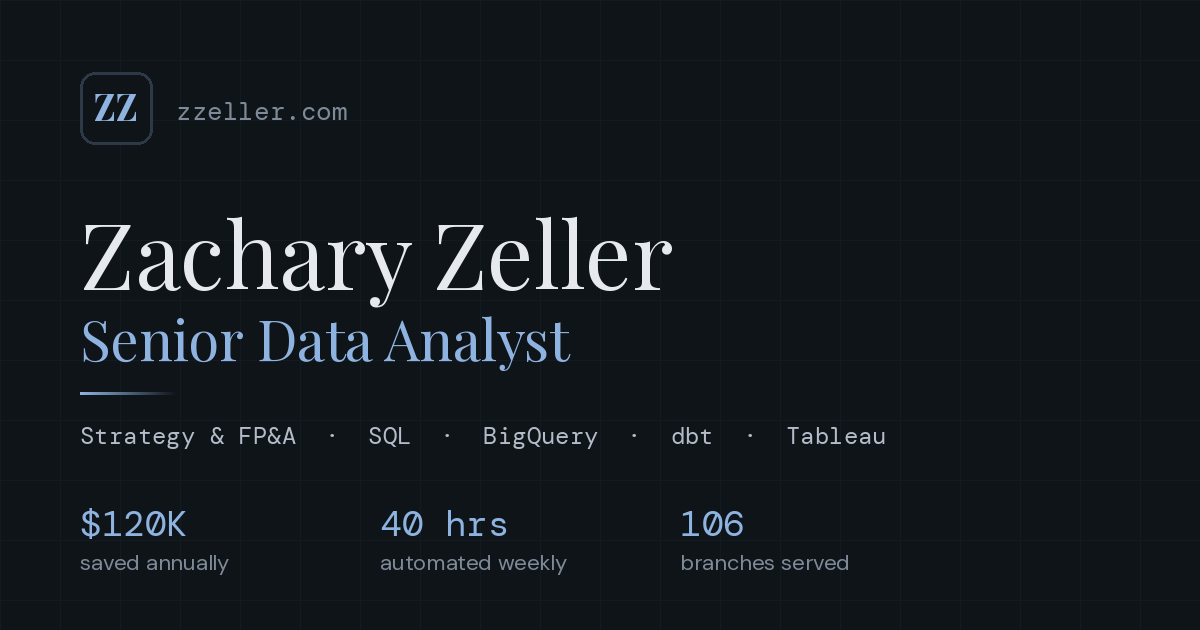
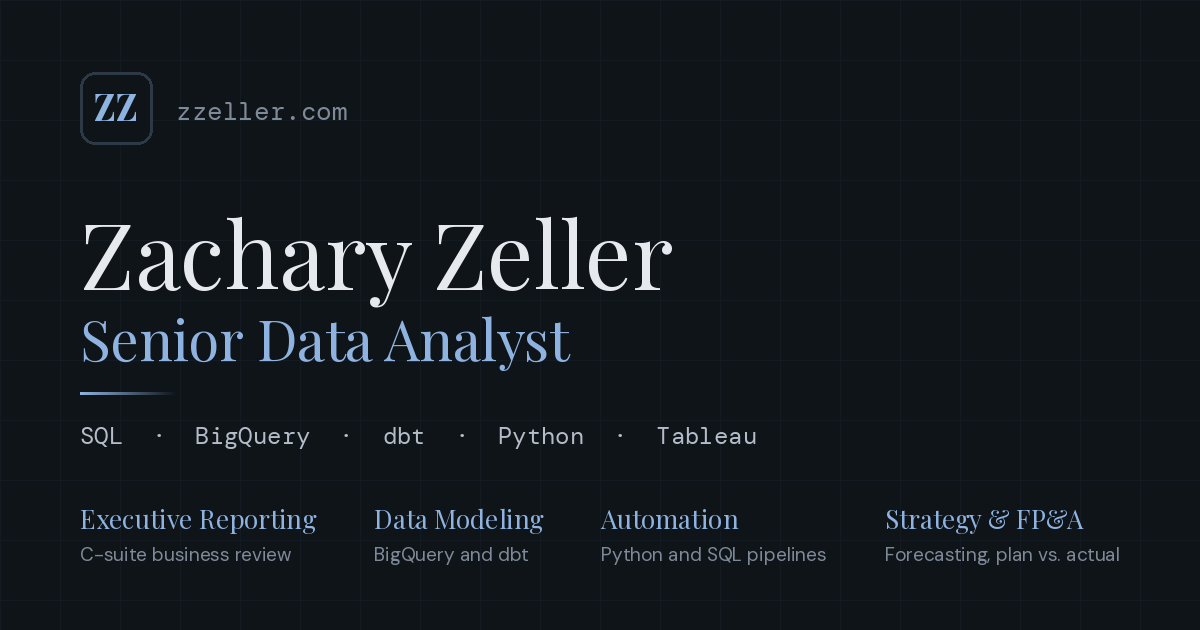
Replace homepage stats with focus areas
The standalone numbers lacked context, so the strip under the hero now
shows four focus areas (Executive Reporting, Data Modeling, Automation,
Strategy & FP&A) with a one-line description each. Same surface band,
Playfair headings and muted body text as the rest of the site; 4, 2 or 1
columns by screen width. Site link preview card updated to match.

Claude-Session: https://claude.ai/code/session_015baVddFD9sNBStHmxd8T1X

diff --git a/src/app/page.tsx b/src/app/page.tsx
@@ -10,12 +10,12 @@ import retention from '@/data/customer-retention.json'
 const featured = requireProject('/projects/customer-retention')
 const supporting = ['/projects/brown-vs-tatum', '/projects/baby-names'].map(requireProject)
 
-// Headline results from the resume
-const stats = [
-  { value: '$120K', label: 'Saved Annually' },
-  { value: '40 hrs', label: 'Automated Weekly' },
-  { value: '106', label: 'Branches Served' },
-  { value: '4+ yrs', label: 'In Analytics' },
+// What I do day to day. Tells a recruiter which roles I fit at a glance.
+const focusAreas = [
+  { title: 'Executive Reporting', desc: 'Monthly business review reporting for the CEO, CFO and Chief Strategy Officer' },
+  { title: 'Data Modeling', desc: 'Governed BigQuery sources and tested dbt models that serve as the source of truth' },
+  { title: 'Automation', desc: 'Python and SQL pipelines that replace recurring manual work' },
+  { title: 'Strategy & FP&A', desc: 'Forecasting, plan vs. actual, and sales compensation analysis' },
 ]
 
 const delayClasses = [
@@ -102,14 +102,18 @@ export default function HomePage() {
         </div>
       </section>
 
-      {/* Metrics strip */}
-      <section className="border-y border-[var(--border-subtle)] bg-[var(--bg-surface)]">
-        <div className="container mx-auto px-6 md:px-8">
-          <div className="grid grid-cols-2 md:grid-cols-4 divide-x divide-[var(--border-subtle)]">
-            {stats.map((stat, i) => (
-              <div key={stat.label} className={`py-8 px-6 text-center ${delayClasses[i]}`}>
-                <p className="metric text-2xl md:text-3xl text-[var(--accent)] mb-1">{stat.value}</p>
-                <p className="text-xs tracking-wider uppercase text-[var(--text-muted)]">{stat.label}</p>
+      {/* Focus areas strip: same surface band as before, one cell per area.
+          Cells sit on a 1px border-colored background, so the gaps between them
+          draw the dividers at every breakpoint (1, 2 or 4 columns). */}
+      <section className="border-y border-[var(--border-subtle)] bg-[var(--border-subtle)]">
+        <div className="container mx-auto">
+          <div className="grid grid-cols-1 sm:grid-cols-2 lg:grid-cols-4 gap-px">
+            {focusAreas.map((area, i) => (
+              <div key={area.title} className={`bg-[var(--bg-surface)] py-8 px-6 md:px-8 ${delayClasses[i]}`}>
+                <h2 className="font-[family-name:var(--font-playfair)] text-xl text-[var(--accent)] mb-2">
+                  {area.title}
+                </h2>
+                <p className="text-sm text-[var(--text-muted)] leading-relaxed">{area.desc}</p>
               </div>
             ))}
           </div>
